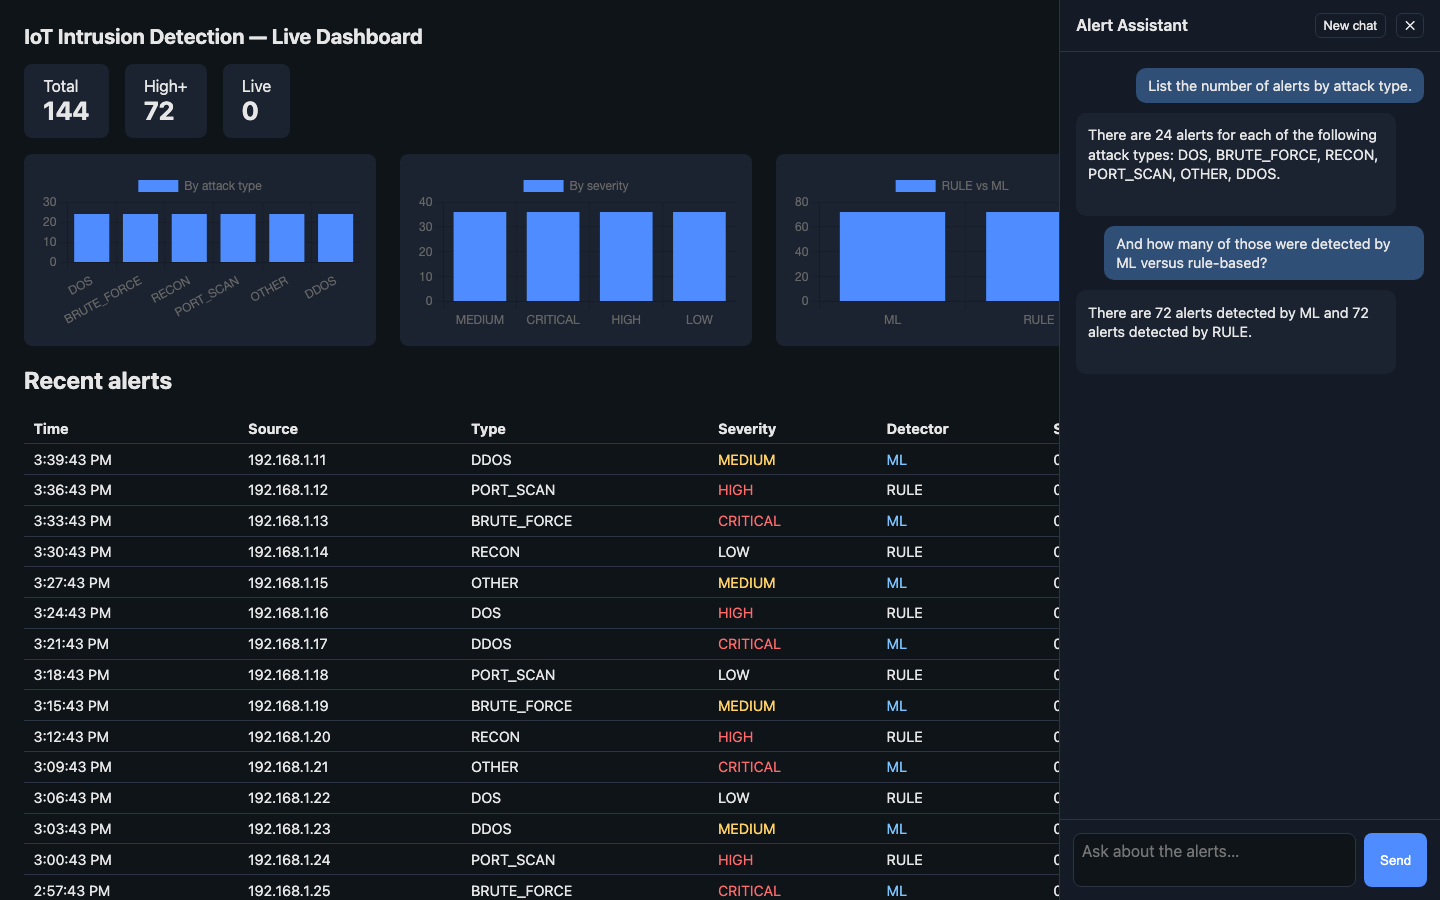
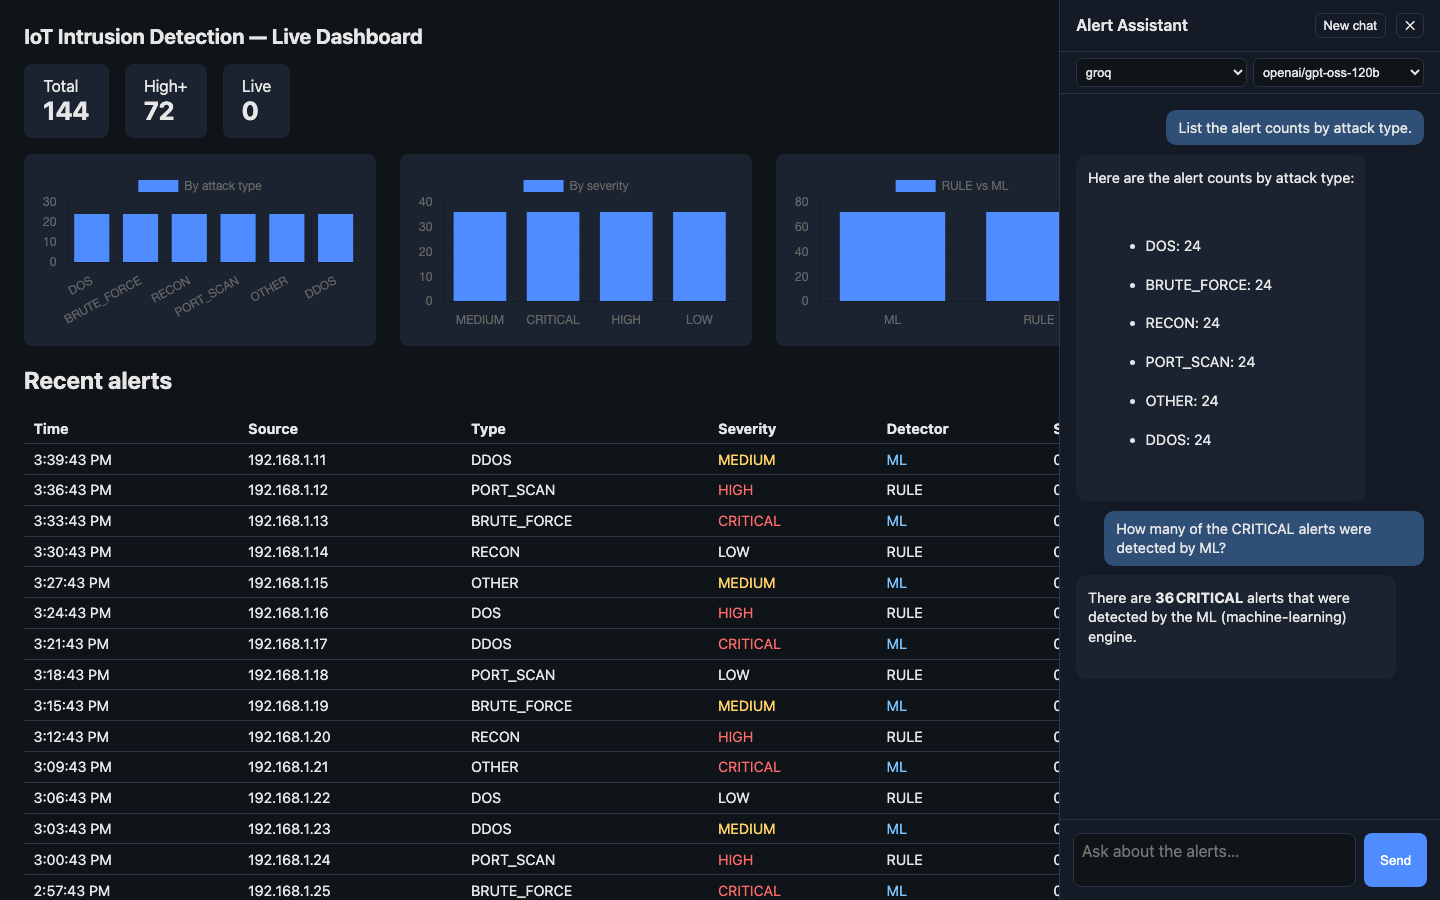
docs: document runtime model selector in README with updated screenshot

diff --git a/README.md b/README.md
@@ -79,11 +79,21 @@ tier needs no credit card. See [Configuration](#configuration).
 
 The dashboard also ships an in-page **chat drawer** for the same assistant, so you can ask
 without leaving the alerts view. It is **multi-turn** (the assistant remembers earlier turns in
-the session — e.g. ask for a breakdown, then "how many of those are ML-detected?"), renders
-answers as **sanitized markdown**, offers clickable **starter prompts**, and persists the
-conversation across page reloads.
+the session), renders answers as **sanitized markdown**, offers clickable **starter prompts**,
+and persists the conversation across page reloads.
+
+A **provider/model selector** in the drawer header lets you switch the LLM at runtime. Only
+providers whose API key is present in the environment are offered, each with a curated model
+list (for the free Groq tier: `llama-3.3-70b-versatile` and `openai/gpt-oss-120b`). Because
+conversation memory is keyed by session and shared across models, you can **switch model
+mid-conversation** and the new model still sees the earlier turns.
 
 ![Chat drawer](screenshots/chat.png)
+
+Above: after listing alert counts by attack type on one model, the user switches the model
+dropdown to `gpt-oss-120b` and asks a combined question — *"how many of the CRITICAL alerts
+were detected by ML?"* — which the assistant answers by cross-filtering severity and detection
+source.
 
 ## Architecture (Phase 1 — ingest & store)
 
@@ -164,15 +174,22 @@ questions such as "how many HIGH alerts in the last hour?" by invoking the right
 returning a plain-language answer. When LLM is disabled the endpoint returns `503 Service
 Unavailable`.
 
+**Runtime model selection:** `GET /api/llm/options` reports the providers that have an API key
+present and their curated model lists; `POST /api/chat` accepts an optional `provider`/`model`
+and echoes the pair that actually answered. A registry caches one assistant per
+`(provider, model)`, all sharing a single session-keyed chat-memory store, so switching model
+mid-conversation preserves history. Enrichment always uses the configured default provider/model.
+
 **Configuration (`application.yml`):**
 
 | Key | Purpose |
 |-----|---------|
 | `app.llm.enabled` | Enable/disable all LLM features (default `false`) |
-| `app.llm.provider` | LLM provider: `groq` (default), `gemini`, or `anthropic` |
-| `app.llm.groq.model` | Groq model id |
-| `app.llm.gemini.model` | Gemini model id |
-| `app.llm.anthropic.model` | Anthropic model id |
+| `app.llm.provider` | Default LLM provider: `groq` (default), `gemini`, or `anthropic` |
+| `app.llm.groq.model` | Default Groq model id |
+| `app.llm.groq.models` | Groq models offered in the chat selector |
+| `app.llm.gemini.model` / `.models` | Gemini default model + selectable list |
+| `app.llm.anthropic.model` / `.models` | Anthropic default model + selectable list |
 | `app.llm.timeout` | Per-call timeout |
 | `app.llm.enrichment.batch-size` | Alerts processed per scheduler tick |
 | `app.llm.enrichment.poll-interval` | Scheduler polling interval |
